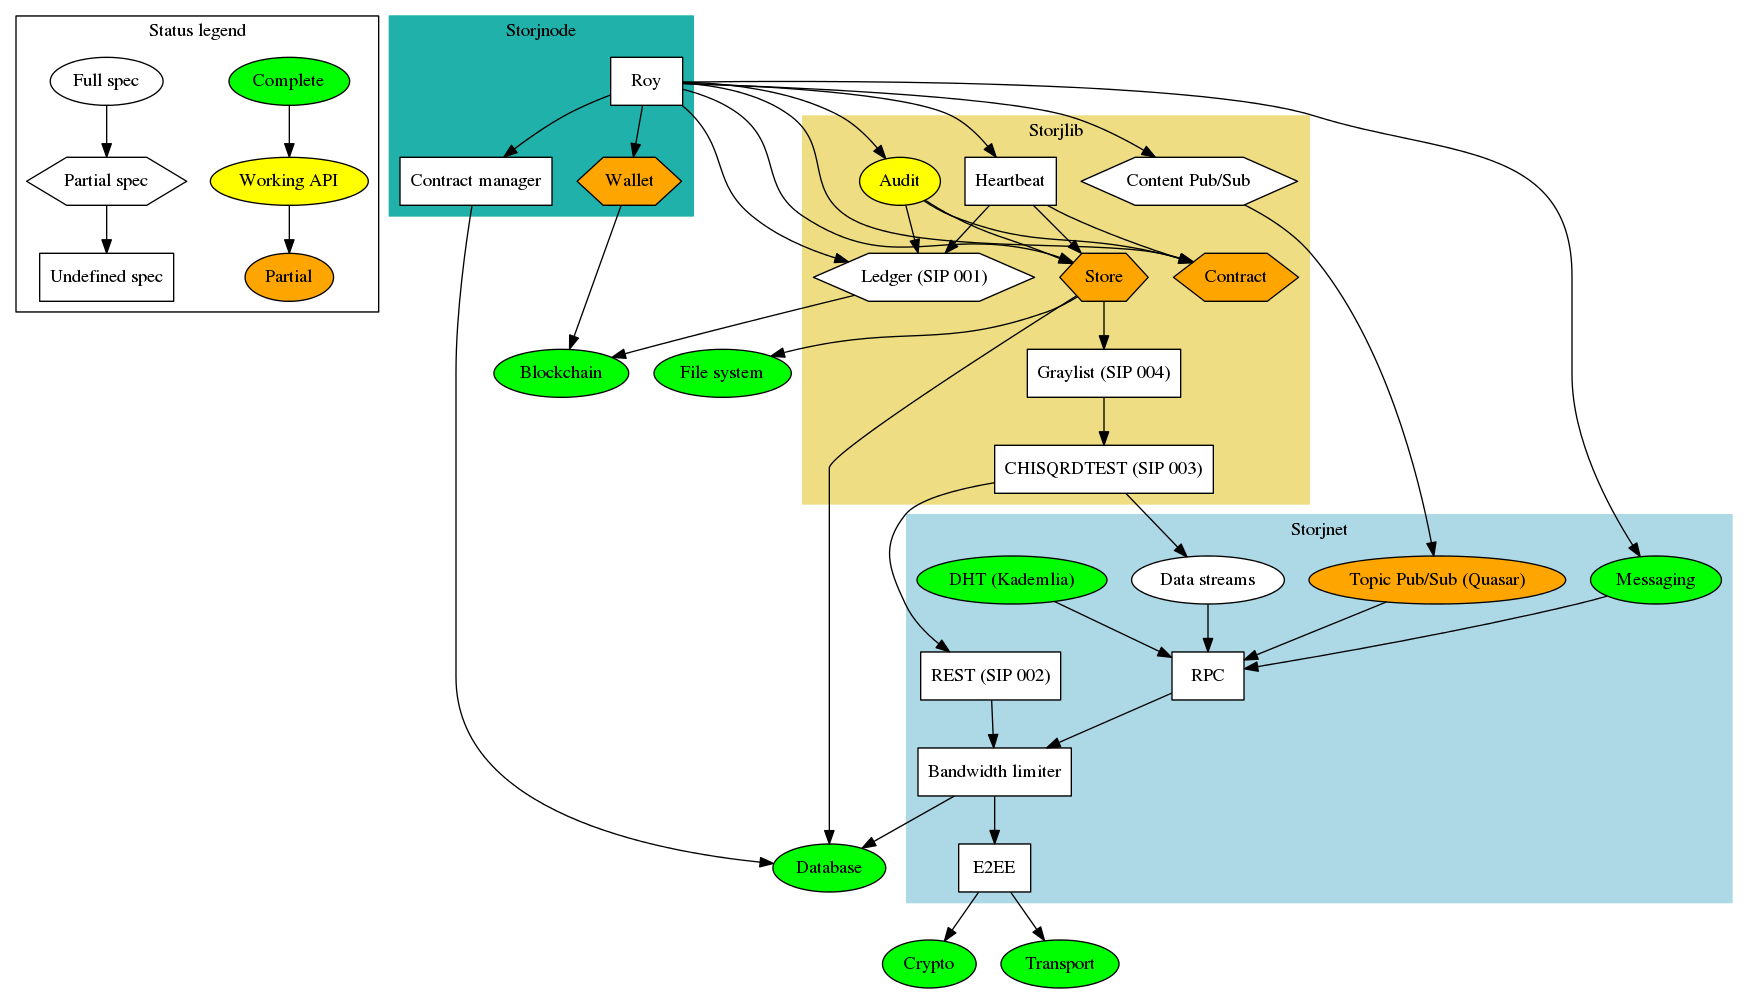
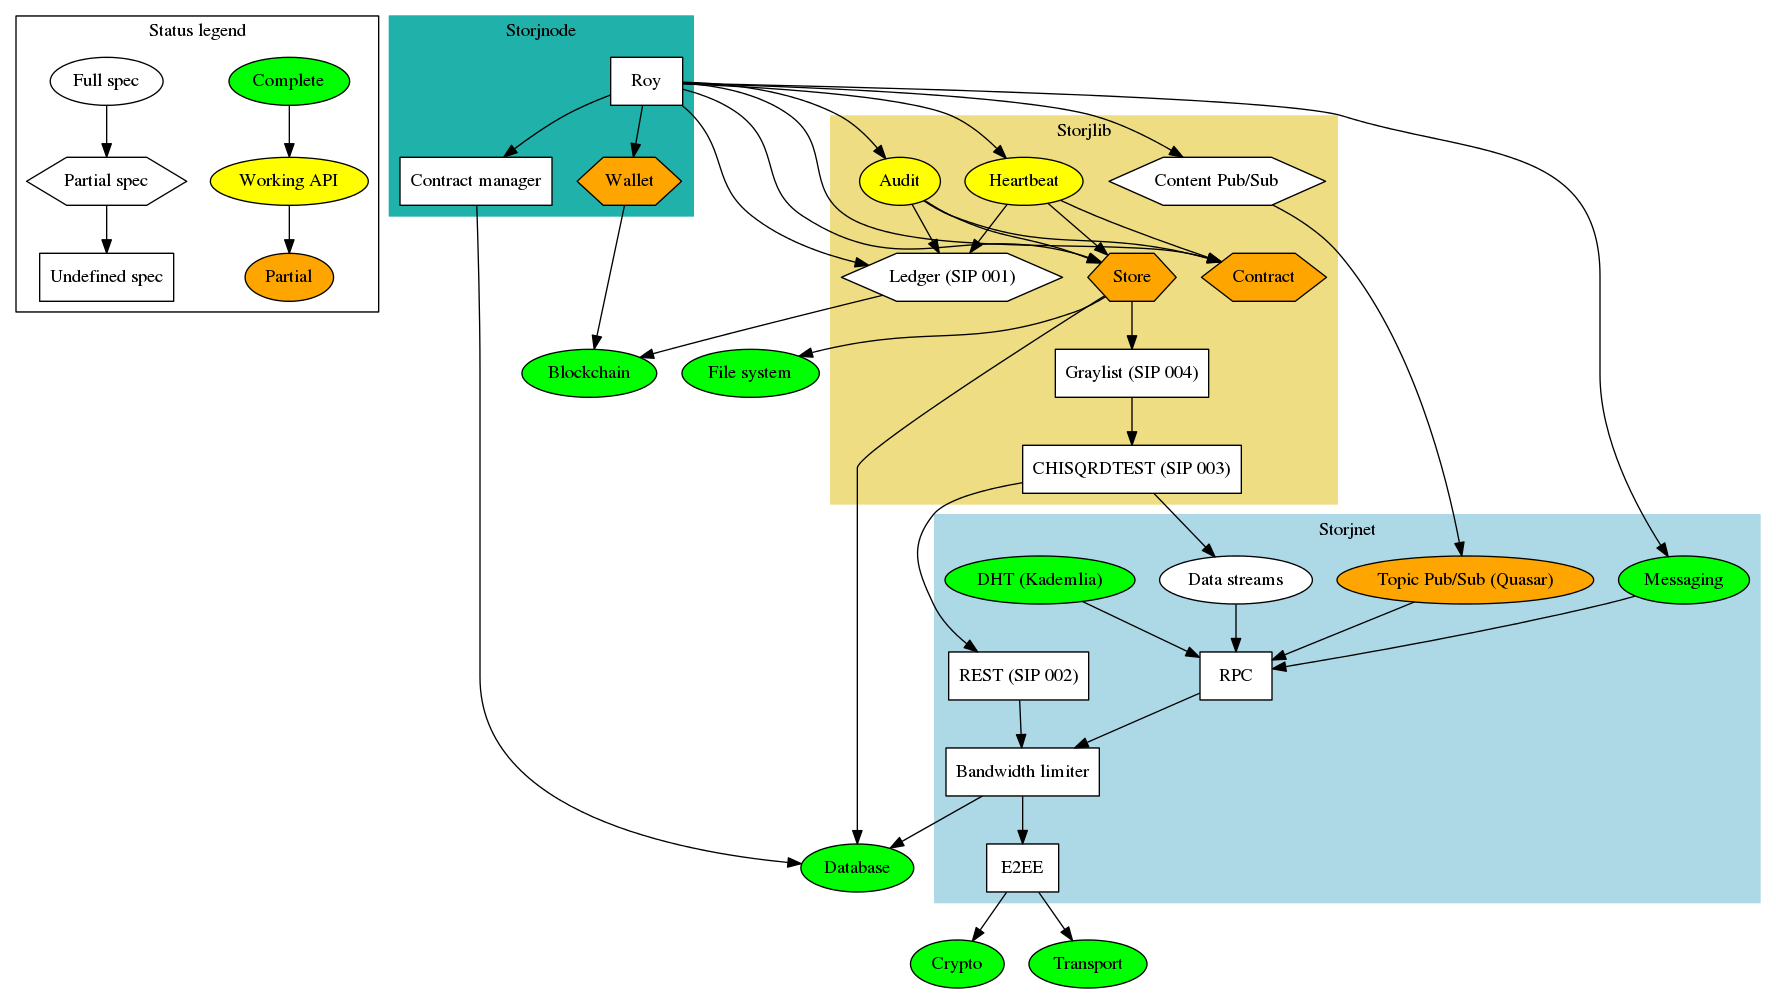
updated status graph and test swarm size

diff --git a/storjnet/test_dht.py b/storjnet/test_dht.py
@@ -5,8 +5,7 @@ import unittest
 import pyjsonrpc
 
 
-# FIXME add to readme documentation
-SWARMSIZE = int(os.environ.get("STORJNET_SWARMSIZE", "10"))
+SWARMSIZE = int(os.environ.get("STORJNET_SWARMSIZE", "50"))
 USER_HOST = os.environ.get("STORJNET_USER_HOST", "127.0.0.1")
 USER_START_PORT = int(os.environ.get("STORJNET_USER_START_PORT", "5000"))
 
@@ -55,6 +54,9 @@ class TestDhtUserApi(unittest.TestCase):
         self.assertEqual(peerip, found_ip)
         self.assertEqual(peer_port, found_port)
 
+    # TODO test find offline
+    # TODO test stun
+
 
 class TestMessageUserApi(unittest.TestCase):
 
@@ -90,6 +92,10 @@ class TestMessageUserApi(unittest.TestCase):
 
     def test_json(self):
         pass
+
+    def test_send_to_void(self):
+        pass
+
 
 if __name__ == "__main__":
     unittest.main()

diff --git a/README.md b/README.md
@@ -21,9 +21,6 @@ storj application. It consists of three main components:
     export STORJNET_USER_HOST="127.0.0.1"
     export STORJNET_USER_START_PORT="5000"
 
-    # run all tests
-    make test
-
     # only run storjnet tests
     make test_storjnet
 
@@ -39,7 +36,7 @@ have to ensure a rpc service exposing the api is running for the tests.
 #### Run storjnet compatibility tests
 
     env:
-      - STORJNET_SWARMSIZE="5" STORJNET_USER_HOST="127.0.0.1" STORJNET_USER_START_PORT="5000"
+      - STORJNET_SWARMSIZE="50" STORJNET_USER_HOST="127.0.0.1" STORJNET_USER_START_PORT="5000"
 
     script:
       - bash -c "source <(curl -s https://raw.githubusercontent.com/Storj/storjspec/master/test_storjnet_compatibility.sh)"
